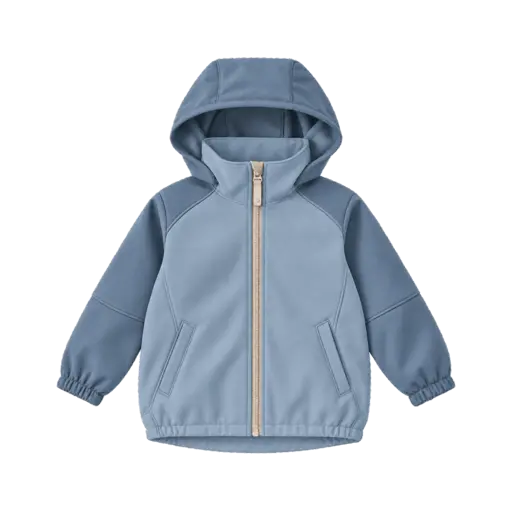
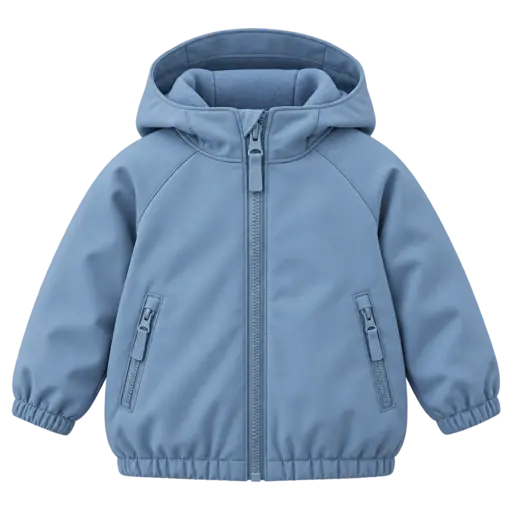
Kleidung: veraltete und unscharfe Asset-Bilder ersetzen
Ersetzt Mützen, Socken, Softshells, dünnen Pullover, Handschuhe und Übergangsoverall; aktualisiert den Service-Worker-Cache.

diff --git a/e2e/service-worker-upgrade.spec.js b/e2e/service-worker-upgrade.spec.js
@@ -1,7 +1,7 @@
 import { test, expect } from '@playwright/test';
 
 const OLD_CACHE = 'babywetter-shell-v0.2.0-assets17';
-const NEW_CACHE = 'babywetter-shell-v0.2.0-assets18';
+const NEW_CACHE = 'babywetter-shell-v0.2.0-assets20';
 
 test('Service-Worker-Upgrade ersetzt den vorherigen App-Shell-Cache', async ({ page, context }) => {
   await page.goto('/?demo=1');

diff --git a/sw.js b/sw.js
@@ -1,4 +1,4 @@
-const CACHE_NAME = 'babywetter-shell-v0.2.0-assets18';
+const CACHE_NAME = 'babywetter-shell-v0.2.0-assets20';
 const ASSET_MANIFEST_PATH = '/assets/clothing/manifest.json';
 const VISUAL_MANIFEST_PATH = '/assets/clothing/visual-manifest.json';
 const SHELL = [
